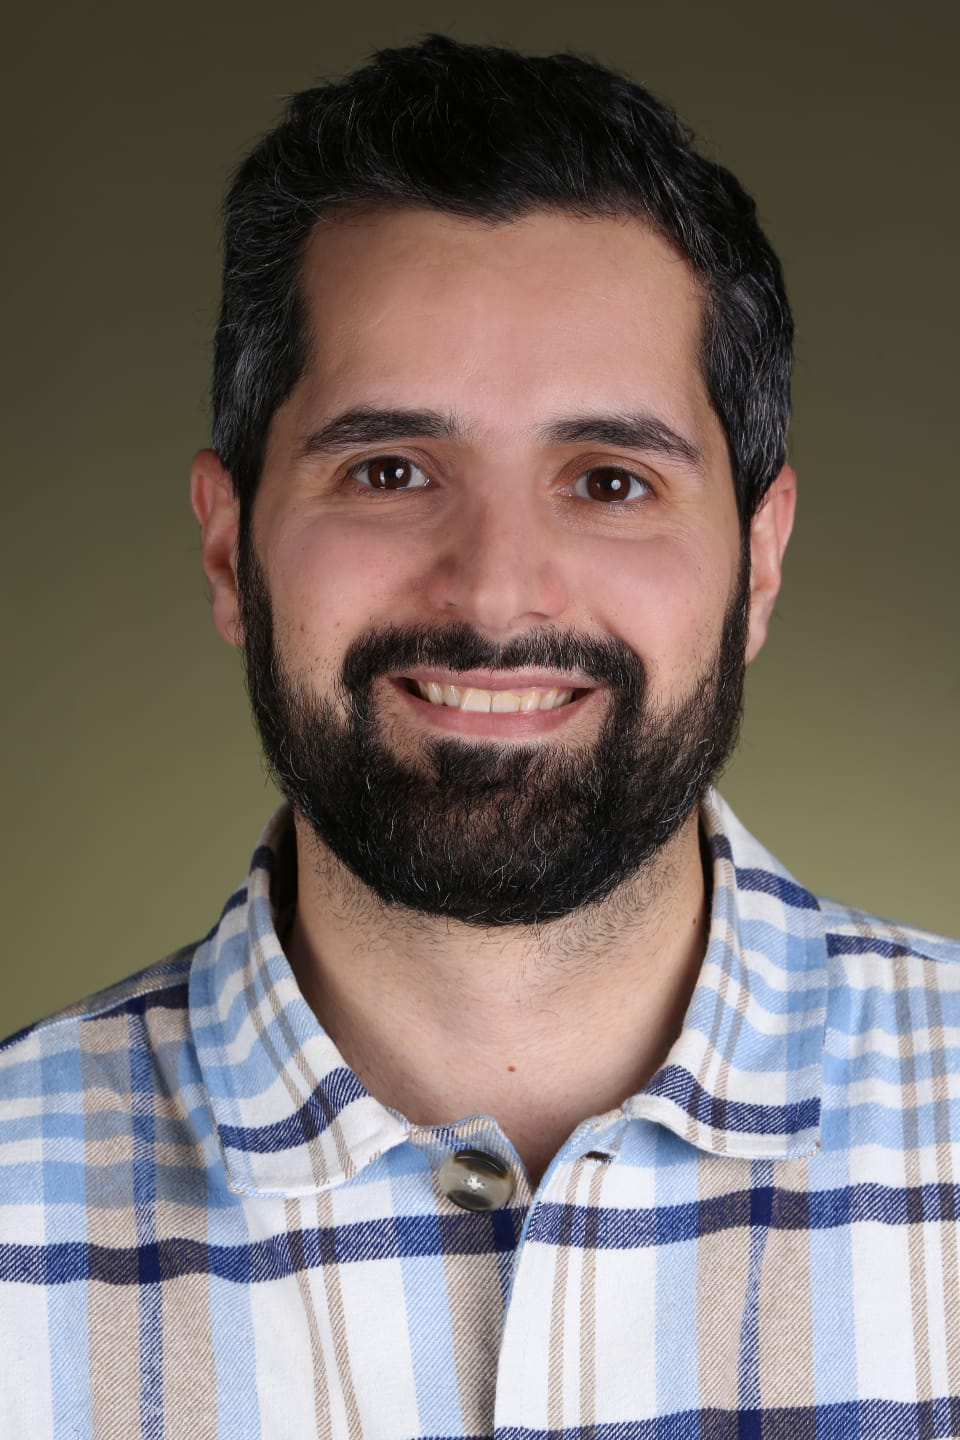
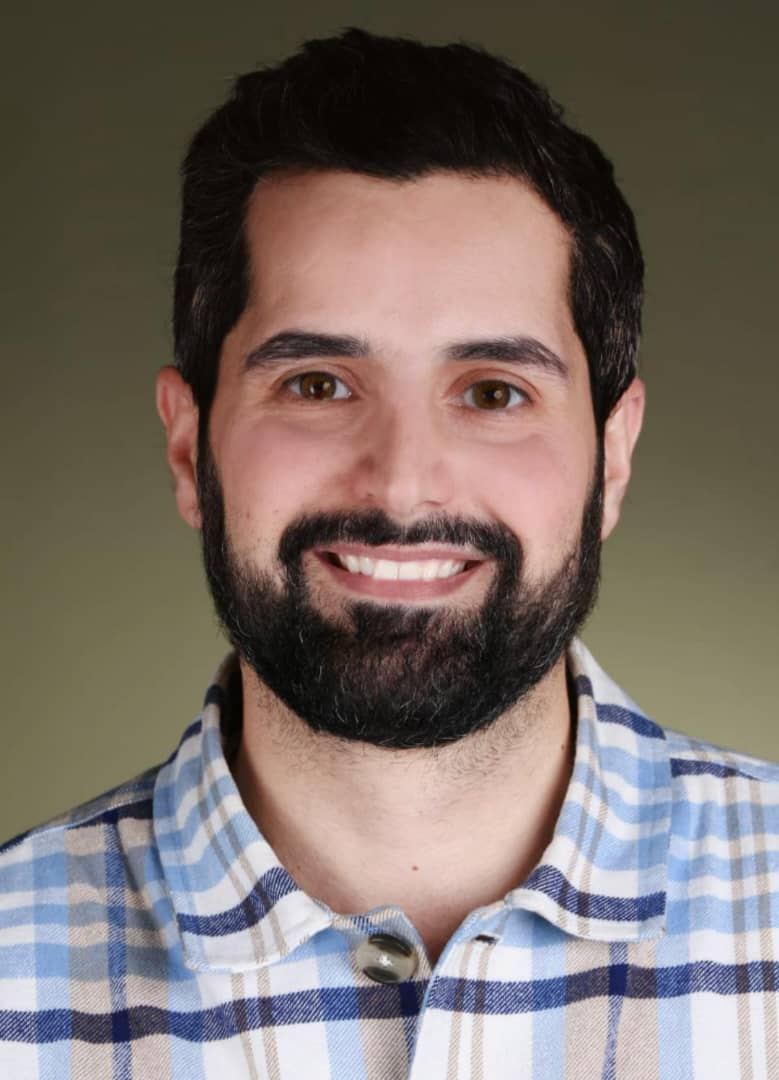
image update intro

diff --git a/src/components/intro/Intro.scss b/src/components/intro/Intro.scss
@@ -32,11 +32,12 @@
     justify-content: center;
 
     .imgContainer {
-      width: 270px;
+      width: 230px;
       height: 280px;
       border-radius: 50%;
       object-fit: cover;
       /* crop to fill */
+    
 
       object-position: top;
       background: rgba(255, 255, 255, 0.2);
@@ -57,6 +58,7 @@
         border-radius: 50%;
 
         object-fit: cover;
+        object-position: center top;
         box-shadow: 0 8px 25px rgba(0, 0, 0, 0.15);
       }
     }
